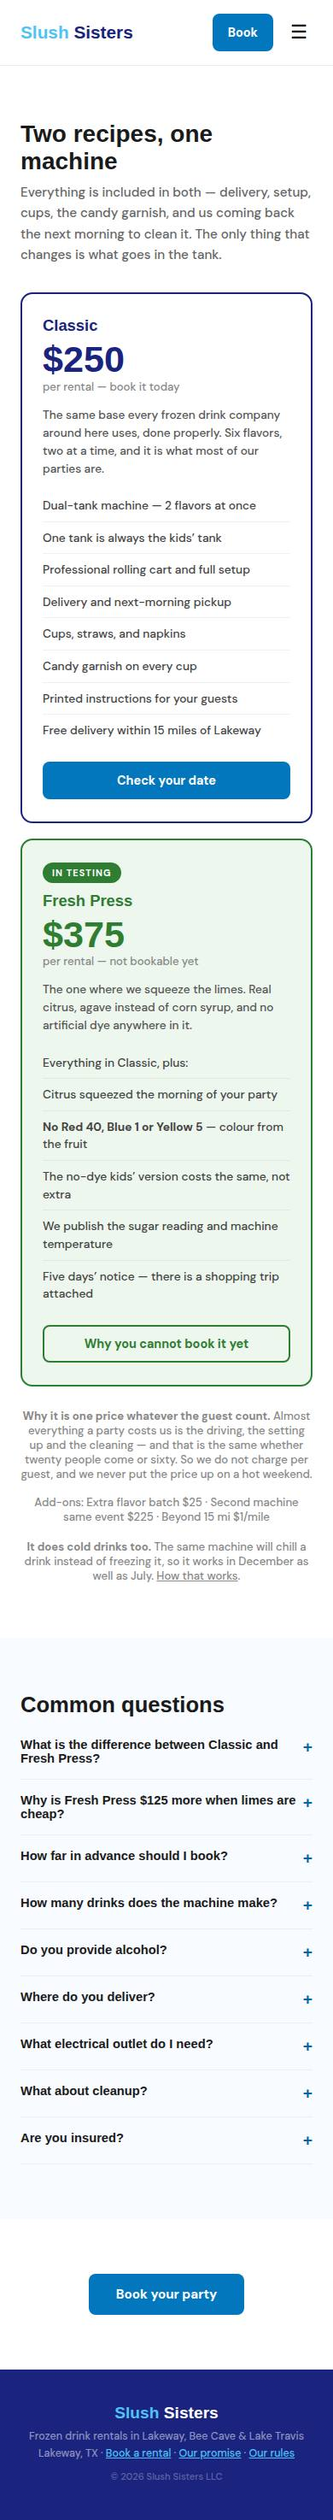
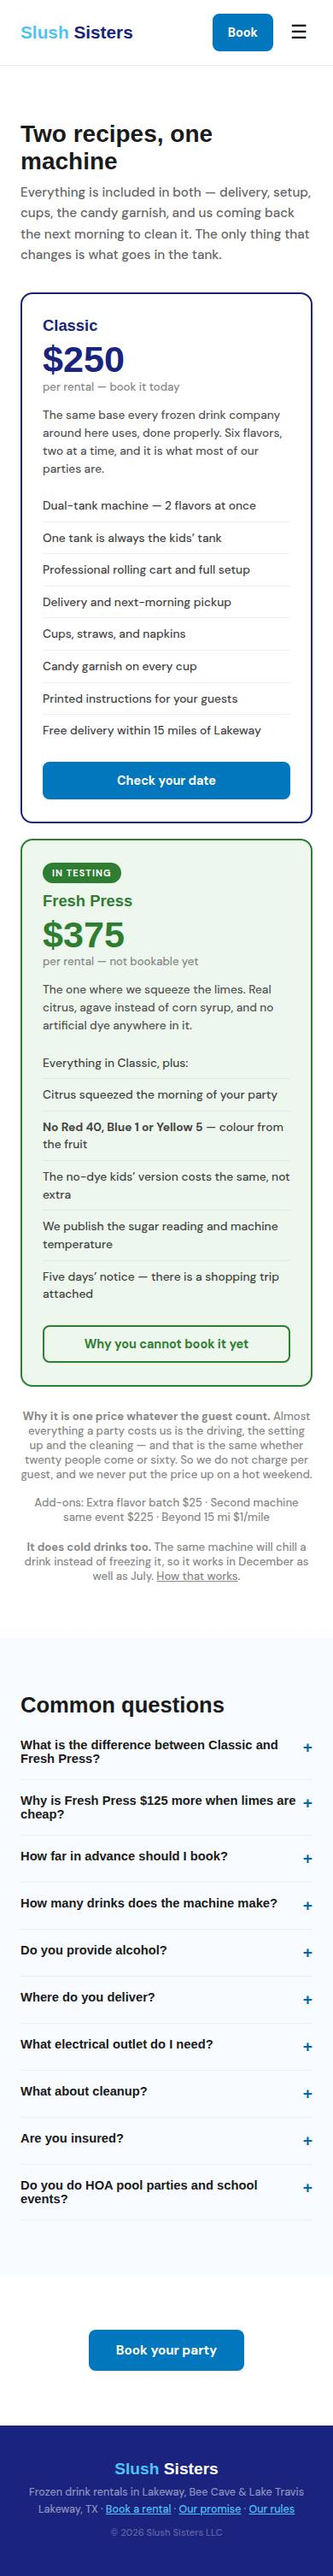
Add /community-events for HOA, school and neighbourhood organisers (#12)
The highest-leverage people in docs/outreach.md had no page written for them: HOA lifestyle directors, PTO chairs across eleven LTISD campuses, and the newsletters that reach 5,000 homes per neighbourhood. It is also the lowest-risk segment — daytime, all ages, no alcohol adjacency.

Gives organisers the numbers before they call: 30 cups a tank, 60 both, 20 minutes to refreeze, second machine over 90 people. Plus the thing that catches people out — a rush moment matters more than headcount.

Deliberately does not promise a certificate of insurance (that paperwork does not exist yet), does not use "corporate", and states plainly that we cannot sell drinks at a public market without a permit we do not hold.

Not built: a list of local bartender services. A bartender is a substitute for this machine, not a complement, and /grown-ups sells against exactly that cost.

diff --git a/public/community-events.html b/public/community-events.html
@@ -1,0 +1,249 @@
+<!DOCTYPE html>
+<html lang="en">
+<head>
+<meta charset="UTF-8">
+<meta name="viewport" content="width=device-width, initial-scale=1.0">
+<title>HOA, School &amp; Community Events — Frozen Drink Machine, Lakeway TX</title>
+<meta name="description" content="Frozen drinks for HOA pool parties, school field days, teacher appreciation and neighbourhood events around Lakeway, Bee Cave and Lake Travis. One price, and two sisters who show up and explain it themselves.">
+<style>
+:root{
+  --brand:#1a237e;
+  --ice:#4fc3f7;
+  --ice-deep:#29b6f6;
+  --wash:#e8f4fd;
+  --blush:#fff5f7;
+  --on-brand:#fff;
+  --ink-ice:#0165a8;    /* 6.13:1 on white, 5.48:1 on --wash */
+  --pop:#ff4081;        /* 3.33:1 — fills, big type, shapes ONLY */
+  --ink-pink:#c2185b;   /* 5.87:1 — body text, links, small labels */
+  --pink-pale:#ffd6e7;
+  --cta:#0277bd;        /* 4.80:1 with white text */
+  --cta-deep:#01579b;
+  --line-strong:#767b85;
+}
+
+*{box-sizing:border-box;margin:0;padding:0;}
+body{font-family:'DM Sans',sans-serif;color:#1a1a1a;background:#fff;}
+a{color:inherit;}
+img{max-width:100%;display:block;}
+
+header{border-bottom:1px solid #eee;padding:16px 24px;display:flex;align-items:center;justify-content:space-between;position:sticky;top:0;background:#fff;z-index:50;}
+.site-name{font-family:'Baloo 2',sans-serif;font-weight:800;font-size:1.3rem;color:var(--brand);text-decoration:none;}
+.site-name span{color:var(--ice);}
+header nav{display:flex;gap:24px;}
+header nav a{font-size:.85rem;font-weight:500;color:#666;text-decoration:none;}
+header nav a:hover{color:#1a1a1a;}
+header nav a.cta{background:var(--cta);color:#fff;padding:8px 20px;border-radius:8px;font-weight:700;}
+header nav a.cta:hover{background:var(--cta-deep);}
+.cta-m{display:none;}
+.menu-btn{display:none;background:none;border:none;font-size:1.4rem;cursor:pointer;}
+@media(max-width:600px){
+header nav{display:none;position:absolute;top:100%;left:0;right:0;background:#fff;flex-direction:column;padding:16px 24px;border-bottom:1px solid #eee;gap:12px;}
+header.open nav{display:flex;}
+.menu-btn{display:block;padding:10px 6px;line-height:1;}
+.cta-m{display:inline-block;background:var(--cta);color:#fff;padding:13px 18px;border-radius:8px;font-weight:700;font-size:.9rem;text-decoration:none;margin-left:auto;margin-right:14px;}
+}
+
+section{padding:56px 24px;}
+.contain{max-width:780px;margin:0 auto;}
+section h1{font-family:'Baloo 2',sans-serif;font-size:clamp(1.9rem,7vw,2.6rem);font-weight:800;margin-bottom:10px;color:var(--brand);line-height:1.1;}
+section h2{font-family:'Baloo 2',sans-serif;font-size:1.45rem;font-weight:800;margin-bottom:8px;color:var(--brand);}
+section h3{font-family:'Baloo 2',sans-serif;font-size:1.02rem;font-weight:700;margin-bottom:5px;}
+section .lead{color:#555;font-size:1rem;line-height:1.65;margin-bottom:26px;}
+section p{line-height:1.65;}
+.kicker{font-size:.72rem;font-weight:700;letter-spacing:1.4px;text-transform:uppercase;color:var(--ink-ice);margin-bottom:10px;}
+.btn{display:inline-block;background:var(--cta);color:#fff;font-weight:700;font-size:.95rem;padding:14px 32px;border-radius:8px;text-decoration:none;}
+.btn:hover{background:var(--cta-deep);}
+.bg-light{background:#f8fbff;}
+.bg-wash{background:var(--wash);}
+
+/* WHO — the four organiser types, one column on a phone */
+.who{display:grid;grid-template-columns:1fr;gap:14px;margin-top:22px;}
+@media(min-width:640px){.who{grid-template-columns:1fr 1fr;}}
+.who .card{border:1.5px solid #e4ebf2;border-radius:12px;padding:20px;}
+.who .card p{font-size:.86rem;color:#555;margin-top:4px;}
+
+/* SIZING — plain rows of numbers, which is what an organiser actually wants */
+.rows{margin-top:18px;}
+.rows .r{display:flex;justify-content:space-between;gap:18px;padding:11px 0;border-bottom:1px solid #eaeff5;font-size:.89rem;}
+.rows .r:last-child{border-bottom:none;}
+.rows .r span:last-child{font-family:'Baloo 2',system-ui,sans-serif;font-weight:600;
+  font-variant-numeric:tabular-nums lining;text-align:right;white-space:nowrap;color:var(--brand);}
+
+.note{border-left:3px solid var(--ink-ice);padding:2px 0 2px 16px;margin-top:22px;}
+.note p{font-size:.88rem;color:#555;}
+.note p + p{margin-top:8px;}
+.note.warn{border-left-color:var(--ink-pink);}
+.note.warn b{color:var(--ink-pink);}
+
+.byo{background:var(--wash);border-radius:12px;padding:22px;margin-top:24px;}
+.byo h3{color:var(--brand);margin-bottom:6px;}
+.byo p{font-size:.88rem;color:#555;}
+.byo p + p{margin-top:8px;}
+
+details{border-bottom:1px solid #eee;padding:16px 0;}
+details summary{font-family:'Baloo 2',sans-serif;font-weight:700;font-size:.92rem;cursor:pointer;list-style:none;display:flex;justify-content:space-between;gap:16px;}
+details summary::after{content:"+";font-size:1.2rem;color:var(--ink-ice);}
+details[open] summary::after{content:"−";}
+details p{margin-top:10px;font-size:.88rem;color:#666;}
+details p + p{margin-top:8px;}
+
+footer{background:var(--brand);color:#fff;padding:40px 24px;text-align:center;}
+footer .f-name{font-family:'Baloo 2',sans-serif;font-weight:800;font-size:1.2rem;margin-bottom:8px;}
+footer .f-name span{color:var(--ice);}
+footer p{font-size:.78rem;color:rgba(255,255,255,.5);margin-bottom:4px;}
+footer a{color:var(--ice);}
+</style>
+<link rel="preconnect" href="https://fonts.googleapis.com">
+<link rel="preconnect" href="https://fonts.gstatic.com" crossorigin>
+<link rel="stylesheet" href="https://fonts.googleapis.com/css2?family=Baloo+2:wght@400..800&family=DM+Sans:ital,wght@0,400;0,500;0,700&display=swap">
+<link rel="icon" href="/favicon.svg" type="image/svg+xml">
+<link rel="apple-touch-icon" href="/img/apple-touch-icon.png">
+<link rel="canonical" href="https://slushsisters.com/community-events">
+<meta property="og:type" content="website">
+<meta property="og:site_name" content="Slush Sisters">
+<meta property="og:url" content="https://slushsisters.com/community-events">
+<meta property="og:title" content="HOA, School &amp; Community Events — Slush Sisters">
+<meta property="og:description" content="Frozen drinks for HOA pool parties, school field days and neighbourhood events around Lakeway, Bee Cave and Lake Travis.">
+<meta property="og:image" content="https://slushsisters.com/img/og.png">
+<meta name="twitter:card" content="summary_large_image">
+</head>
+<body><header id="hdr">
+<a href="/" class="site-name"><span>Slush</span> Sisters</a>
+<nav>
+<a href="/grown-ups">For Grown-Ups</a>
+<a href="/flavors">Flavors</a>
+<a href="/lab">The Lab</a>
+<a href="/pricing">Pricing</a>
+<a href="/about">About</a>
+<a href="/book" class="cta">Book Now</a>
+</nav>
+<a href="/book" class="cta-m">Book</a>
+<button class="menu-btn" onclick="document.getElementById('hdr').classList.toggle('open')">☰</button>
+</header>
+
+<section>
+<div class="contain">
+<p class="kicker">For the person organising it</p>
+<h1>Pool parties, field days and neighbourhood events</h1>
+<p class="lead">If you run the calendar for an HOA, a school, a PTO or a swim team, you have a harder job than a birthday party &mdash; more people, a budget somebody signs off, and a hundred kids who all want the same thing at the same moment.</p>
+<p class="lead">This page is the practical stuff: how many drinks one machine actually makes, what we need from you on the day, and what we cannot do. All the numbers are on the page rather than behind a phone call.</p>
+<a href="/book" class="btn">Check a date</a>
+</div>
+</section>
+
+<section class="bg-light">
+<div class="contain">
+<h2>Who this is usually for</h2>
+<div class="who">
+<div class="card"><h3>HOA lifestyle directors</h3><p>Pool opening, summer socials, movie nights, Fourth of July. One machine covers a mid-size social; two covers a pool opening.</p></div>
+<div class="card"><h3>PTOs and room parents</h3><p>Field day, end of year, teacher appreciation week. Daytime, all ages, no alcohol anywhere near it.</p></div>
+<div class="card"><h3>Swim and sports teams</h3><p>End-of-season parties and meet days. Hot, long, and everybody is thirsty at once &mdash; which is the case one machine handles worst, so read the sizing below.</p></div>
+<div class="card"><h3>Neighbourhood block parties</h3><p>The kind organised by four people in a group chat. Usually one machine, usually mixed ages, which is what the two tanks are for.</p></div>
+</div>
+</div>
+</section>
+
+<section>
+<div class="contain">
+<h2>How many drinks it actually makes</h2>
+<p class="lead">The honest numbers, so you can size it before you call anyone. A twelve-ounce cup, a three-gallon tank, and what stays stuck to the sides already taken off.</p>
+<div class="rows">
+<div class="r"><span>One tank, one fill</span><span>about 30 cups</span></div>
+<div class="r"><span>Both tanks, one fill</span><span>about 60 cups</span></div>
+<div class="r"><span>Time to refreeze a refill</span><span>about 20 min</span></div>
+<div class="r"><span>Comfortable for a 2&ndash;3 hour event</span><span>up to ~45 people</span></div>
+<div class="r"><span>Works with refills we bring</span><span>45&ndash;90 people</span></div>
+<div class="r"><span>Needs a second machine</span><span>90+ people</span></div>
+</div>
+<div class="note">
+<p><b>The number that catches people out is not the crowd size, it is the shape of the event.</b> Ninety people spread over three hours is fine. Ninety people who all queue up the minute the whistle goes will empty both tanks in about fifteen minutes and then wait twenty for a refill.</p>
+<p>If your event has a moment like that &mdash; the end of a game, the start of a party, an awards bit &mdash; tell us when you book and we will size it for the rush instead of the total.</p>
+</div>
+<p style="margin-top:22px;font-size:.9rem;color:#666;">You can run your own numbers on <a href="/lab" style="color:var(--ink-ice);font-weight:600;">the cups calculator in the Lab</a> &mdash; it shows the arithmetic rather than just an answer.</p>
+</div>
+</section>
+
+<section class="bg-wash">
+<div class="contain">
+<h2>Why the two tanks matter more at a community event</h2>
+<p style="font-size:.95rem;color:#444;margin-bottom:12px;">At a birthday party everyone wants the same thing. At a neighbourhood social you have eight-year-olds and their grandparents in the same line.</p>
+<p style="font-size:.95rem;color:#444;">The machine holds two flavors at once, and one of them is always a drink with nothing in it that a kid should not have. That is <a href="/our-rules" style="color:var(--ink-ice);font-weight:600;">rule one</a>, it is free, and it means nobody at your event is standing there holding the wrong cup.</p>
+</div>
+</section>
+
+<section>
+<div class="contain">
+<h2>What we need from you</h2>
+<div class="rows">
+<div class="r"><span>A normal household outlet within about 25 feet</span><span>required</span></div>
+<div class="r"><span>A flat spot, ideally shaded</span><span>required</span></div>
+<div class="r"><span>Somewhere we can wheel a cart to</span><span>required</span></div>
+<div class="r"><span>A table for cups and the candy</span><span>helpful</span></div>
+<div class="r"><span>Gate code or where to park</span><span>helpful</span></div>
+<div class="r"><span>How far ahead to book</span><span>2&ndash;4 weeks</span></div>
+</div>
+<p style="margin-top:20px;font-size:.9rem;color:#666;">Shade is the one people forget. A machine in full Texas sun works harder, and the drink comes out softer.</p>
+
+<div class="byo">
+<h3>What you do not need to do</h3>
+<p>You do not rinse anything, scrub anything or store anything overnight. We deliver it, set it up, mix the first batch and show whoever is running the table how it works. Then we come back the next morning and take it away dirty.</p>
+<p>Cleaning it properly takes about an hour and it is our job, not yours. That is <a href="/our-rules">rule six</a>.</p>
+</div>
+</div>
+</section>
+
+<section class="bg-light">
+<div class="contain">
+<h2>Things we will tell you straight</h2>
+
+<div class="note warn">
+<p><b>We cannot sell drinks at a public market or festival.</b> Dispensing drinks to the public for money is a prepared-food operation and needs a temporary food permit we do not currently hold. At a private event &mdash; your pool, your school, your street &mdash; that does not apply, and this is the ordinary case.</p>
+<p>If you are running a public market and want us there, say so up front and we will find out properly what it takes rather than guess.</p>
+</div>
+
+<div class="note warn">
+<p><b>Anything with alcohol in it is a grown-up&rsquo;s job, start to finish.</b> We make the frozen mix, which has no alcohol in it. If your event has an adult drink, an adult on your side pours their own into the tank, from their own bottle. Harper is 11 and Finley is 8 and they are not anywhere near that part.</p>
+<p>For school and daytime events this never comes up at all, which is most of what this page is about. The full version is on <a href="/promise">our promise page</a>, written before anybody asked.</p>
+</div>
+
+<div class="note">
+<p><b>If you need paperwork, ask before you book.</b> Some HOAs and schools need a certificate of insurance or a vendor form on file. Slush Sisters LLC is a registered Texas business with liability insurance &mdash; but what exactly we can put in your hands, and how fast, depends on what you need. Tell us early and our dad will sort it out rather than us promising something on a website and finding out later.</p>
+</div>
+
+</div>
+</section>
+
+<section>
+<div class="contain">
+<h2>The bit that is actually different</h2>
+<p style="font-size:.95rem;color:#444;margin-bottom:12px;">Most rentals arrive as a man with a van. Ours arrives as two sisters who own the company, and they set it up themselves and explain it to whoever is running your table.</p>
+<p style="font-size:.95rem;color:#444;margin-bottom:12px;">For a community event that is worth something real: it is a story your residents talk about, and it is a photo and a paragraph for your newsletter that you did not have to write. Several people will ask the girls how they got started. They like being asked.</p>
+<p style="font-size:.95rem;color:#444;">If your newsletter or calendar wants the story rather than just the booking, say so and we will help &mdash; that part is free.</p>
+</div>
+</section>
+
+<section class="bg-light">
+<div class="contain">
+<h2>Questions organisers ask</h2>
+<details><summary>What does it cost for a community event?</summary><p>The same as everything else: $250, everything included, whatever the guest count. A second machine for the same event is $225, and extra flavor batches are $25 each. We do not charge per head and we do not raise it on a hot weekend &mdash; that is <a href="/our-rules">rule three</a>.</p></details>
+<details><summary>Can you do more than one machine?</summary><p>Yes, and above about 90 people you want two. Tell us the headcount and whether there is a rush moment, and we will say honestly which you need. We would rather talk you into two machines than have you queue for twenty minutes.</p></details>
+<details><summary>Can we do it in winter?</summary><p>Yes. The same machine will chill a drink instead of freezing it, so it works at a December event as well as a July one. Most people do not know these machines do that. <a href="/grown-ups">How that works</a>.</p></details>
+<details><summary>Do you need a deposit?</summary><p>Ask us when you book. We are a small enough operation that we would rather answer you directly than put a policy on a website we then have to argue about.</p></details>
+<details><summary>What if it rains?</summary><p>Tell us as early as you can. We would much rather move a date than have a machine sitting in the rain at an event nobody came to.</p></details>
+<details><summary>Can the girls talk to our residents or students?</summary><p>Yes, and they are good at it. They can explain how it works, what is in it, and why sugar is what stops it freezing. If you want a proper five-minute version for a classroom or a club, ask &mdash; they have <a href="/lab">the whole thing written down</a>.</p></details>
+</div>
+</section>
+
+<section class="bg-wash" style="text-align:center;">
+<h2>Tell us about your event.</h2>
+<p class="lead">Headcount, the date, and whether there is a moment when everyone arrives at once. That is enough for us to size it.</p>
+<a href="/book" class="btn">Check a date</a>
+</section>
+
+<footer>
+<div class="f-name"><span>Slush</span> Sisters</div>
+<p>Frozen drink rentals in Lakeway, Bee Cave &amp; Lake Travis</p>
+<p>Lakeway, TX · <a href="/book">Book a rental</a> · <a href="/promise">Our promise</a> · <a href="/our-rules">Our rules</a></p>
+<p style="margin-top:12px;font-size:.7rem;color:rgba(255,255,255,.3);">&copy; 2026 Slush Sisters LLC</p>
+</footer></body></html>

diff --git a/public/pricing.html b/public/pricing.html
@@ -310,7 +310,8 @@ section h1{font-family:'Baloo 2',sans-serif;font-size:1.75rem;font-weight:800;ma
 <details><summary>Where do you deliver?</summary><p>Free within 15 miles of Lakeway. That covers Bee Cave, Westlake, Steiner Ranch, and most of the Lake Travis area.</p></details>
 <details><summary>What electrical outlet do I need?</summary><p>A regular household outlet. Nothing special. Just needs to be close to where you want the machine.</p></details>
 <details><summary>What about cleanup?</summary><p>We handle it. We pick up the machine the next morning and clean everything ourselves.</p></details>
-<details><summary>Are you insured?</summary><p>Yes. Slush Sisters LLC is a registered Texas business with liability insurance. Schools, HOAs, and corporate events can book us.</p></details>
+<details><summary>Are you insured?</summary><p>Yes. Slush Sisters LLC is a registered Texas business with liability insurance. Schools, HOAs and community events can book us.</p><p>If your HOA or school needs a certificate or a vendor form on file, ask before you book and our dad will sort it &mdash; see <a href="/community-events">the page for event organisers</a>.</p></details>
+<details><summary>Do you do HOA pool parties and school events?</summary><p>Yes, and they are some of our favourites. <a href="/community-events">There is a whole page for organisers</a> with the real numbers on it &mdash; how many cups one machine makes, when you need two, and what we need from you on the day.</p></details>
 </div>
 </section>
 

diff --git a/public/grown-ups.html b/public/grown-ups.html
@@ -314,6 +314,6 @@ footer a{color:var(--ice);}
 <footer>
 <div class="f-name"><span>Slush</span> Sisters</div>
 <p>Frozen drink rentals across the Austin area</p>
-<p>Lakeway, TX &middot; <a href="/book">Book a rental</a> &middot; <a href="/promise">Our promise</a> &middot; <a href="/our-rules">Our rules</a></p>
+<p>Lakeway, TX &middot; <a href="/book">Book a rental</a> &middot; <a href="/promise">Our promise</a> &middot; <a href="/our-rules">Our rules</a> &middot; <a href="/community-events">HOA &amp; school events</a></p>
 <p style="margin-top:12px;font-size:.7rem;color:rgba(255,255,255,.3);">&copy; 2026 Slush Sisters LLC</p>
 </footer></body></html>

diff --git a/scripts/snapshot.js b/scripts/snapshot.js
@@ -49,6 +49,7 @@ const PAGES = [
   ['lab', '/lab'],
   ['fresh-press', '/fresh-press'],
   ['our-rules', '/our-rules'],
+  ['community-events', '/community-events'],
   ['read-hub', '/read'],
   ['read-pick-colours', '/read/pick-the-colours'],
   ['read-freezes', '/read/why-it-freezes'],
